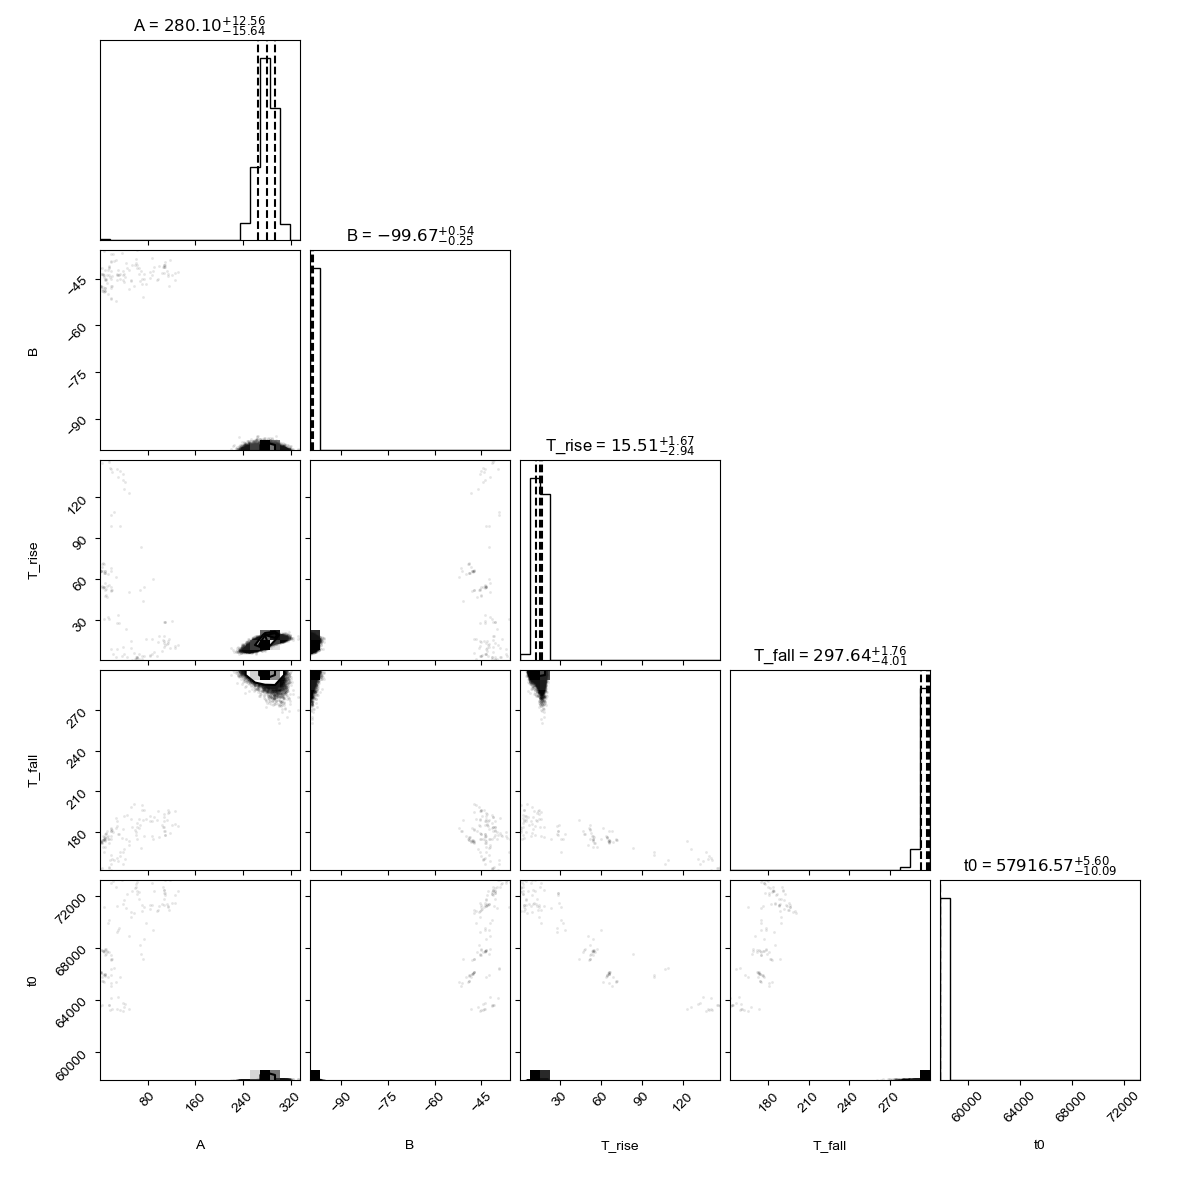
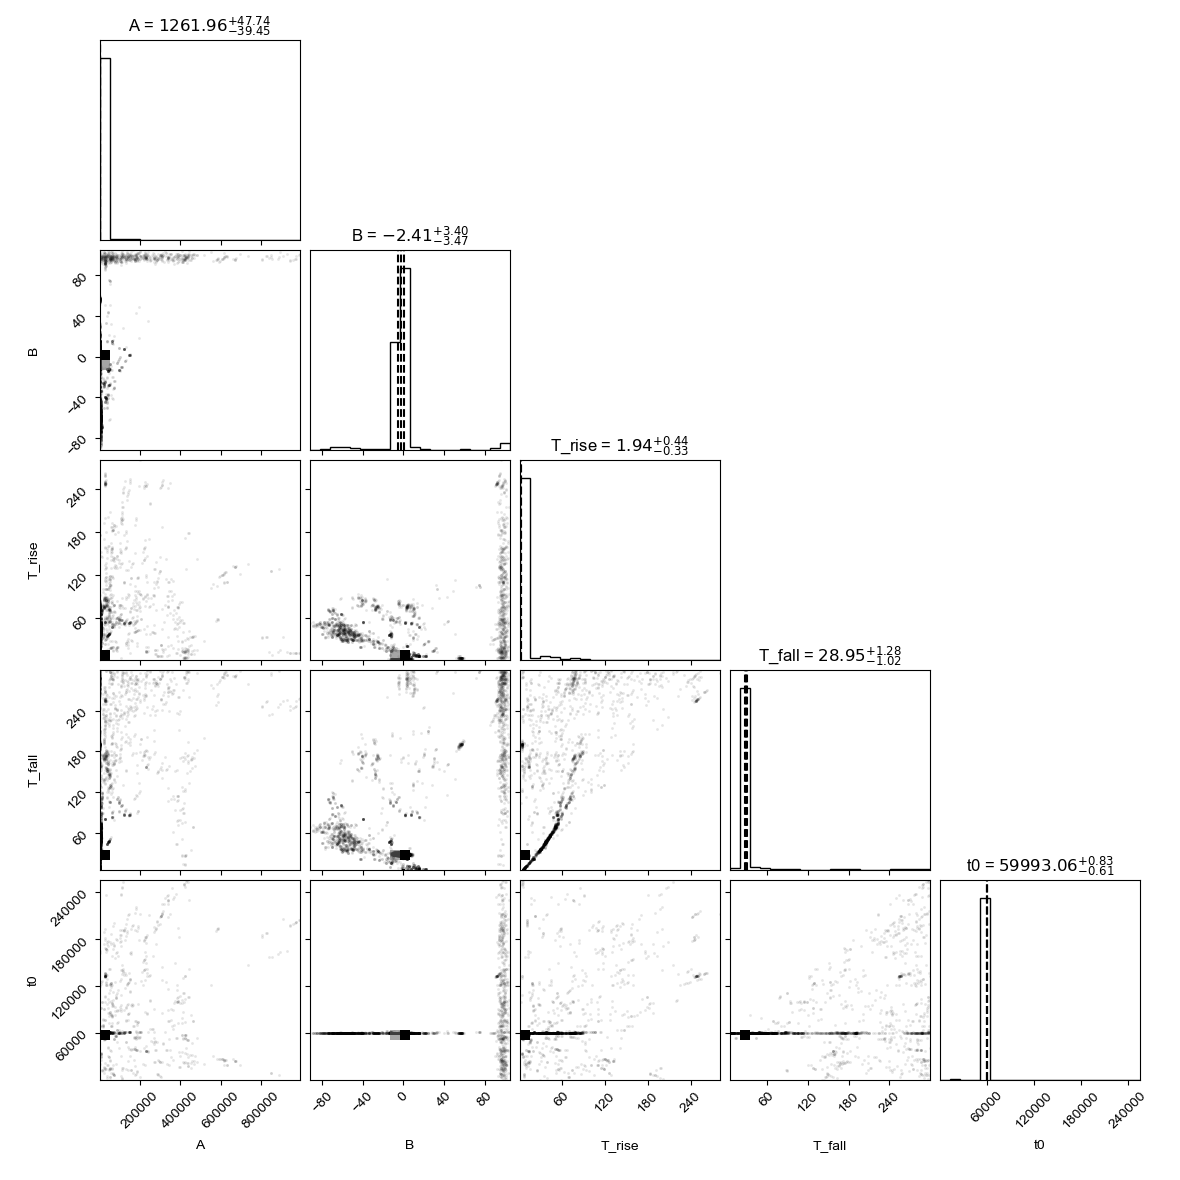
update

diff --git a/SNIPER.py b/SNIPER.py
@@ -46,15 +46,15 @@ plt.style.use("default")
 plt.rcParams["font.family"] = "Arial"
 
 config_cleaned_lc_directory = "/Users/thomasmoore/Desktop/SNIPER_DEV/ATLAS_TDEs/"
-MJD_minus = 400
-MJD_plus = 1000
+MJD_minus = 500
+MJD_plus = 500
 nwalkers = 200
 nsteps = 5000
 progress = True
 plot = True
 
 final_run_walker_multiplier = 2
-final_run_step_multiplier = 10
+final_run_step_multiplier = 2
 
 
 parser = argparse.ArgumentParser()
@@ -96,8 +96,10 @@ if os.path.isdir(output_dir + "/scatter/") == False:
     os.makedirs(output_dir + "/scatter/")
 
 
-IAU_list = pd.read_csv(args.file)
-IAU_list.columns = ["IAU_NAME"]
+IAU_list = pd.read_csv(args.file, header=None)
+IAU_list.columns = ["IAU_NAME", "t_guess"]
+
+print(IAU_list.t_guess)
 
 
 global x_global, y_global, y_err_global
@@ -618,8 +620,9 @@ def fit_bazin(**kwargs):
         A, B, T_rise, T_fall, t0 = best_params
         A_upper, B_upper, T_rise_upper, T_fall_upper, t0_upper = upper_quartile
         A_lower, B_lower, T_rise_lower, T_fall_lower, t0_lower = lower_quartile
+        print(f"t max = {time_max_mcmc}")
+        plt.vlines(time_max_mcmc, np.min(x_global), np.max(x_global), color="k")
 
-        # plt.vlines(time_max_mcmc,5000,-5000,)
         plt.savefig(output_dir + "/overplot/" + object + "_bazin_overplot.png")
         plt.close()
 
@@ -745,7 +748,9 @@ SNIPER_OUTPUT = pd.DataFrame()
 print("starting loop")
 
 for object in tqdm(IAU_list["IAU_NAME"], leave=False):
+    t_guess = IAU_list.loc[IAU_list["IAU_NAME"] == object, "t_guess"]
     print(f"Working on {object}")
+    print(f"t_guess = {float(t_guess)}")
     f = []
     f = config_cleaned_lc_directory + object + "/" + object + ".o.1.00days.lc.txt"
     # print(f)
@@ -782,11 +787,14 @@ for object in tqdm(IAU_list["IAU_NAME"], leave=False):
     )
     df.drop(df[df.duJy > 50].index, inplace=True)
     # df = df.dropna()
-    max_y = np.argmax(savgol_filter(df.uJy, 5, 3))
     x = np.array(df.MJD)
-    savgol_first_guess = x[max_y]
-    df_cut_min = savgol_first_guess - MJD_minus
-    df_cut_max = savgol_first_guess + MJD_plus
+    if math.isnan(t_guess) is True:
+        max_y = np.argmax(savgol_filter(df.uJy, 10, 3))
+        savgol_first_guess = x[max_y]
+        t_guess = savgol_first_guess
+
+    df_cut_min = float(t_guess) - MJD_minus
+    df_cut_max = float(t_guess) + MJD_plus
     df_new = df.dropna(how="any", axis=0)
 
     lightcurve_data = df_new.loc[
@@ -824,17 +832,21 @@ for object in tqdm(IAU_list["IAU_NAME"], leave=False):
     )
     print(f"t_max = {np.nanmean(bazin_results[0])}")
 
-    lightcurve_data = lightcurve_data.drop(
-        lightcurve_data[
-            lightcurve_data["MJD"] <= (np.nanmean(bazin_results[0]) - 200)
-        ].index
-    )
+    # lightcurve_data = lightcurve_data.drop(
+    #    lightcurve_data[
+    #        lightcurve_data["MJD"] <= (np.nanmean(bazin_results[0]) - 200)
+    #    ].index
+    # )
 
     x, y, yerr = (
         lightcurve_data["MJD"].astype(float),
         lightcurve_data["uJy"].astype(float),
         lightcurve_data["duJy"].astype(float),
     )
+
+    plt.figure()
+    plt.plot(x, y)
+    plt.savefig(object + ".png")
     def_global(x, y, yerr)
     print(np.nanmean(bazin_results[0]))
     first_guess = np.nanmean(bazin_results[0])
